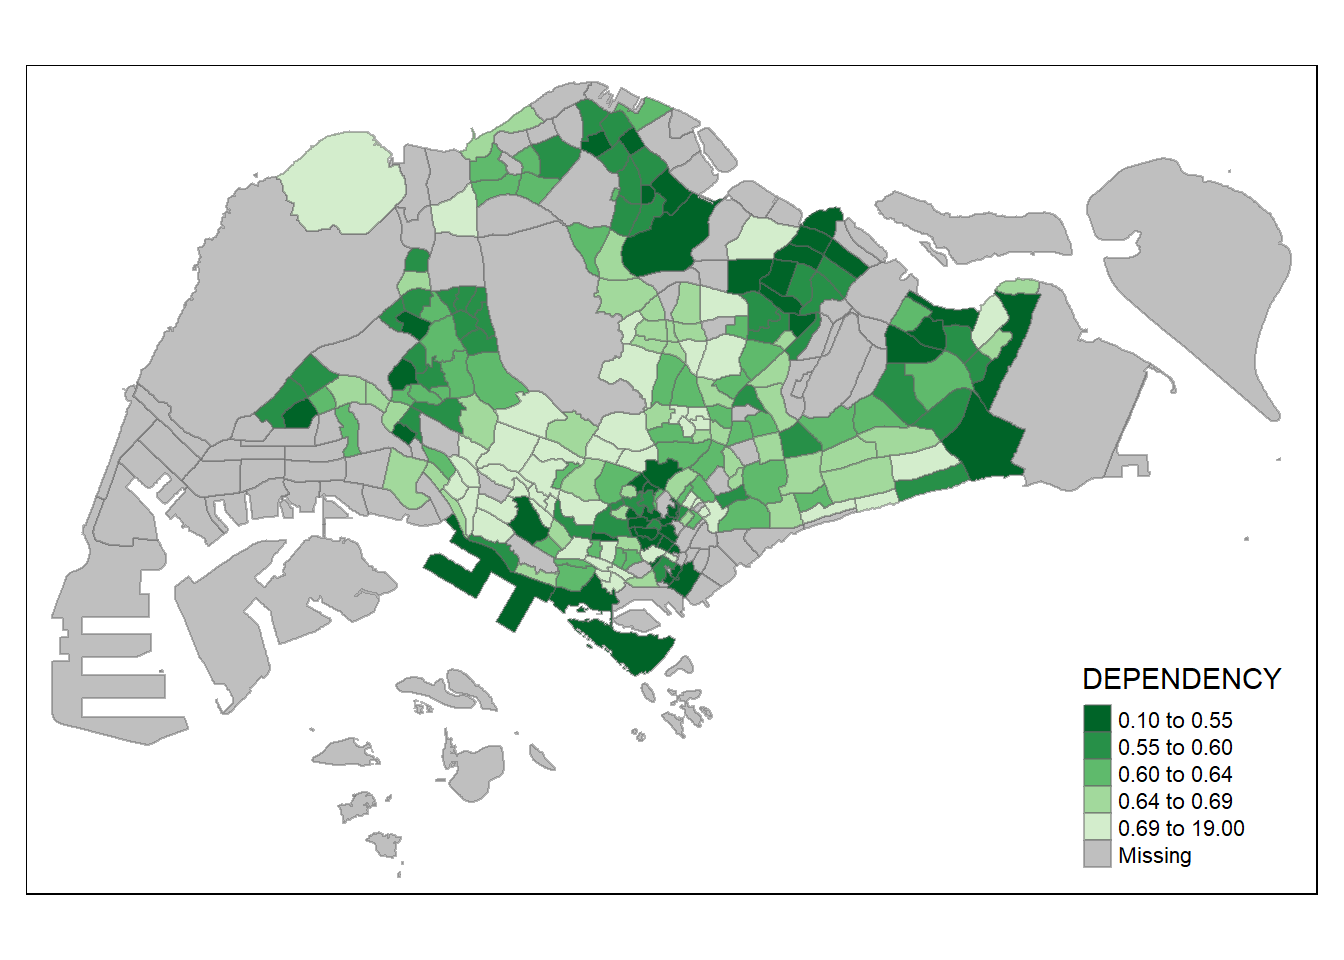
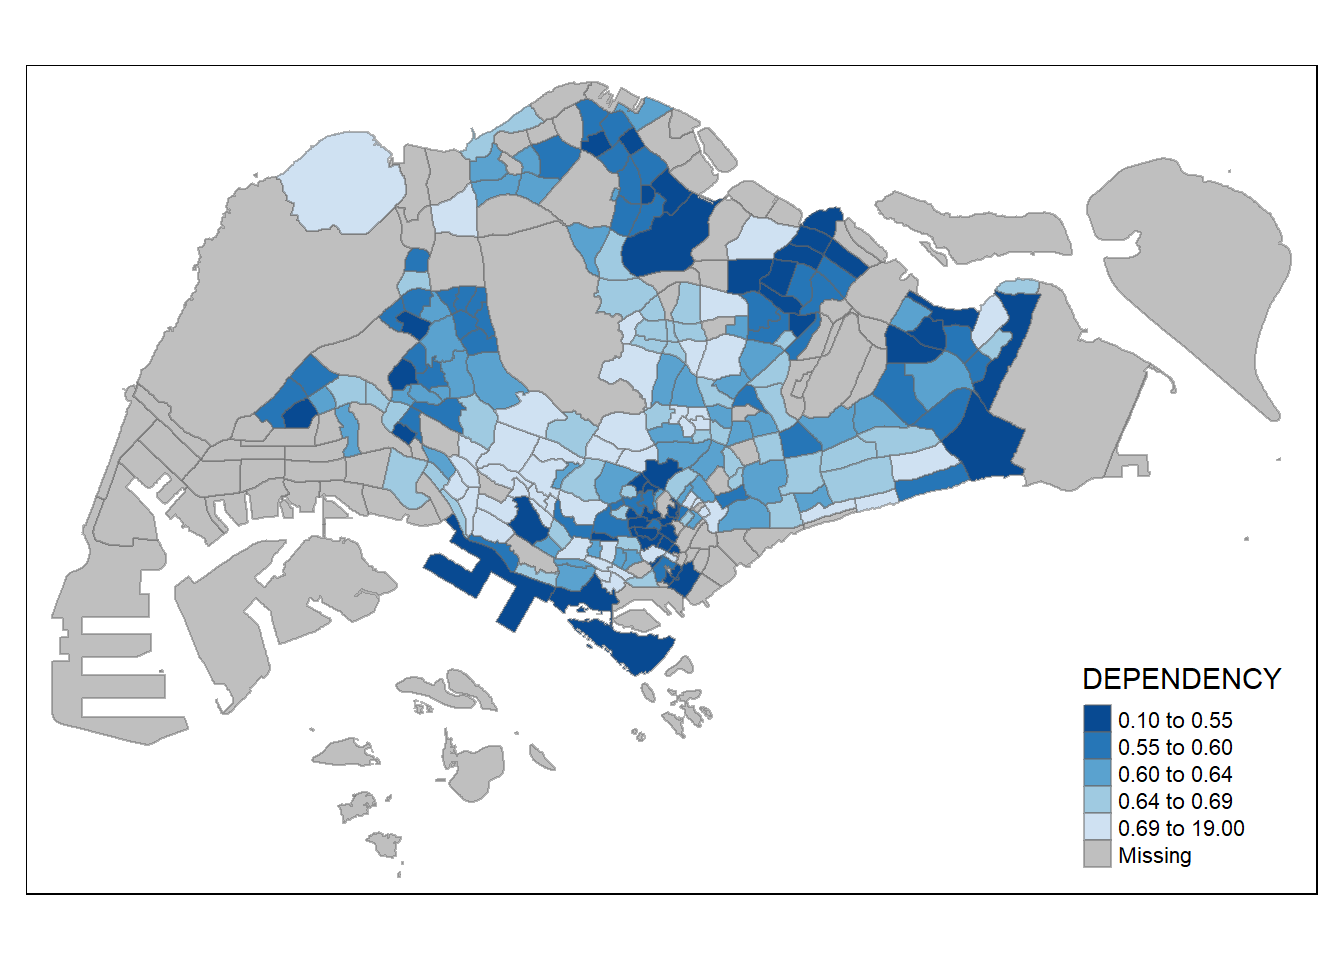
update hands on exercise 2 html

Changed region(s): [[0.1875, 0.0938, 0.7812, 0.7188], [0.7812, 0.7188, 0.8438, 0.875]]

diff --git a/_site/Hands-on_Ex/Hands-on_Ex02/Hands-on_Ex02.html b/_site/Hands-on_Ex/Hands-on_Ex02/Hands-on_Ex02.html
@@ -641,7 +641,7 @@ dbl (2): Pop, Time
 <div class="sourceCode cell-code" id="cb28"><pre class="sourceCode r code-with-copy"><code class="sourceCode r"><span id="cb28-1"><a href="#cb28-1" aria-hidden="true" tabindex="-1"></a><span class="fu">tm_shape</span>(mpsz_pop2020)<span class="sc">+</span></span>
 <span id="cb28-2"><a href="#cb28-2" aria-hidden="true" tabindex="-1"></a>  <span class="fu">tm_fill</span>(<span class="st">"DEPENDENCY"</span>,</span>
 <span id="cb28-3"><a href="#cb28-3" aria-hidden="true" tabindex="-1"></a>          <span class="at">style =</span> <span class="st">"quantile"</span>,</span>
-<span id="cb28-4"><a href="#cb28-4" aria-hidden="true" tabindex="-1"></a>          <span class="at">palette =</span> <span class="st">"-Greens"</span>) <span class="sc">+</span></span>
+<span id="cb28-4"><a href="#cb28-4" aria-hidden="true" tabindex="-1"></a>          <span class="at">palette =</span> <span class="st">"-Blues"</span>) <span class="sc">+</span></span>
 <span id="cb28-5"><a href="#cb28-5" aria-hidden="true" tabindex="-1"></a>  <span class="fu">tm_borders</span>(<span class="at">alpha =</span> <span class="fl">0.5</span>)</span></code><button title="Copy to Clipboard" class="code-copy-button"><i class="bi"></i></button></pre></div>
 <div class="cell-output-display">
 <div>

diff --git a/_site/index.html b/_site/index.html
@@ -231,7 +231,7 @@ window.Quarto = {
 <h2 class="anchored" data-anchor-id="section"></h2>
 <div id="listing-exercises" class="quarto-listing quarto-listing-container-default">
 <div class="list quarto-listing-default">
-<div class="quarto-post image-right" data-index="0" data-listing-date-sort="1724428800000" data-listing-file-modified-sort="1724498382950" data-listing-date-modified-sort="1724498382000" data-listing-reading-time-sort="13" data-listing-word-count-sort="2443">
+<div class="quarto-post image-right" data-index="0" data-listing-date-sort="1724428800000" data-listing-file-modified-sort="1724503446996" data-listing-date-modified-sort="1724503446000" data-listing-reading-time-sort="13" data-listing-word-count-sort="2443">
 <div class="thumbnail">
 <p><a href="./Hands-on_Ex/Hands-on_Ex02/Hands-on_Ex02.html" class="no-external"></a></p><a href="./Hands-on_Ex/Hands-on_Ex02/Hands-on_Ex02.html" class="no-external">
 <p class="card-img-top"><img src="Hands-on_Ex\Hands-on_Ex02\Hands-on_Ex02_files\figure-html\unnamed-chunk-9-1.png"  class="thumbnail-image card-img"/></p>
